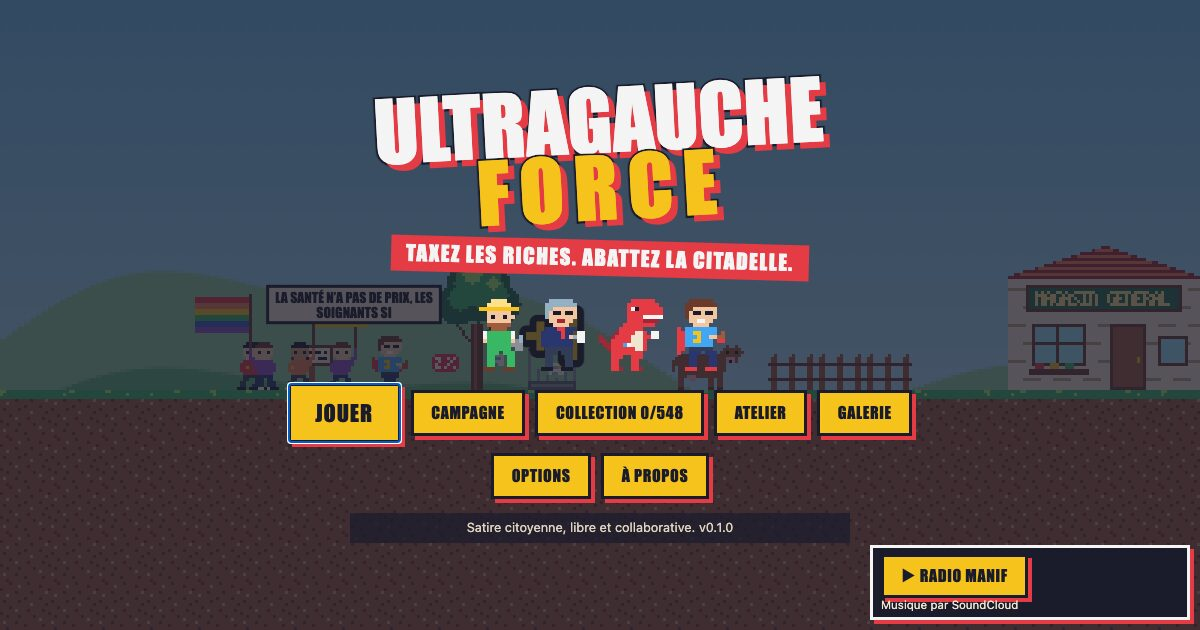
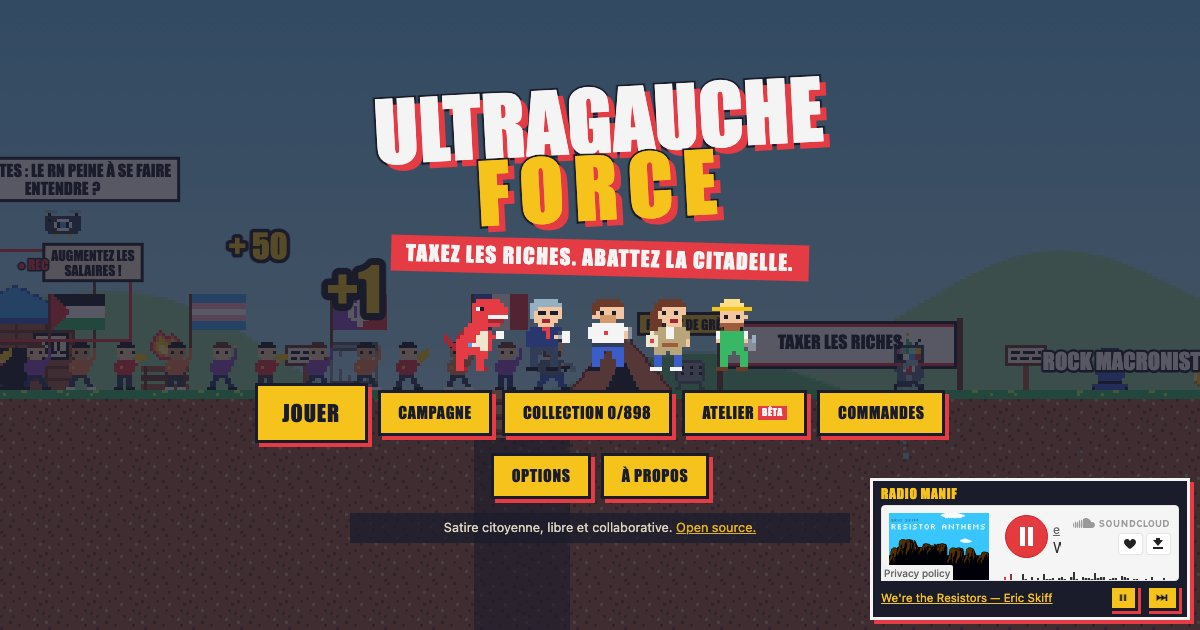
docs: le jeu est en ligne, un aperçu de lien à jour, un README sans erreur
Valentin, 17 novembre 2026 : « Attendre le domaine ». og:url et og:image
restent sur https://macraoke.github.io/ultragaucheforce/ jusqu'au branchement.

- apercu.jpg (og:image, 1200×630) : nouvelle capture réelle du menu actuel
  (Collection 0/898, Atelier bêta, Commandes, lecteur Radio Manif), à la
  place de l'ancien menu (« 0/548 », « Galerie », « v0.1.0 »).
- README : lien « Jouer en ligne » en tête ; « en ligne sur
  macraoke.github.io/ultragaucheforce, bientôt sur ultragaucheforce.fr » à la
  place de « Pas encore en ligne ».
- Chiffres et faits relus sur content/ : 389 pancartes (pas 345) ; les six
  étapes dans l'ordre de campagne.txt, Bismillah comprise (il n'y a pas de
  niveau « Citadelle ») ; on part à trois à Millevaches (plus « à dix place
  de la République ») ; le boss est tiré au hasard sauf à la chaîne d'info
  (Bolloré) et à Bismillah (Arnault) ; plus de catacombes ni de salle des
  coffres, absentes des niveaux.
- Les captures de niveaux qui n'existent plus sont retirées (place de la
  République, catacombes, parking, grille de la Citadelle, salle des
  coffres) ; la capture du menu est refaite.
- Licence : « sauf mention contraire », et le lien vers les mentions légales.

Audit avant publication, n° 7 et n° 8.

diff --git a/README.md b/README.md
@@ -2,7 +2,9 @@
 
 > **Taxez les riches. Abattez la Citadelle.**
 
-Un run-and-gun en pixel art où vous incarnez l'ultragauche telle que les plateaux télé la racontent : surarmée de tracts et de tomates. On part à dix place de la République, on arrive à des centaines devant la Citadelle, et on taxe la fortune qui s'y est assise. Ça se joue dans le navigateur, au clavier ou au pouce.
+**[Jouer en ligne](https://macraoke.github.io/ultragaucheforce/)**, dans le navigateur, sans rien installer.
+
+Un run-and-gun en pixel art où vous incarnez l'ultragauche telle que les plateaux télé la racontent : surarmée de tracts et de tomates. On part à trois sur le plateau de Millevaches ; d'étape en étape, la manif grossit, et au bout de chacune on taxe la fortune qui s'y est assise. Ça se joue dans le navigateur, au clavier ou au pouce.
 
 | | |
 |---|---|
@@ -12,11 +14,11 @@ Un run-and-gun en pixel art où vous incarnez l'ultragauche telle que les platea
 
 - **Faire grossir la manif.** Une soignante, un cheminot, une intersyndicale : chaque recrue compte, une assemblée générale double tout.
 - **Pousser.** Un barrage a une vie : les tracts l'entament, la manif le pousse, d'autant plus fort qu'elle est nombreuse.
-- **Six étapes.** Le camp d'entraînement de Millevaches, le rond-point, la raffinerie bloquée, le siège de la chaîne d'info, le soir du 49.3 devant l'Assemblée, puis la Citadelle.
-- **Creuser, grimper.** Tout le décor se détruit. Sous la rue, le métro, les catacombes, la salle des coffres ; au-dessus, six étages et les toits.
+- **Six étapes.** Le camp d'entraînement de Millevaches, le rond-point, la raffinerie bloquée, le soir du 49.3 devant l'Assemblée, le siège de la chaîne d'info, puis « Bismillah, c'est les ténèbres », du lycée bloqué à la plus grande manif.
+- **Creuser, grimper.** Tout le décor se détruit. Sous la rue, le métro ; au-dessus, les étages et les toits.
 - **Libérer.** On part avec un seul personnage, tiré au hasard la première fois. Chaque camarade sorti de garde à vue rejoint l'équipe et se joue tout de suite ; quand il tombe, on repart avec le précédent.
-- **Débloquer.** Les gens qui rejoignent la manif portent parfois une pancarte : commune, rare, épique ou légendaire. Il y en a 345, toutes relevées en manif.
-- **Taxer.** Au bout de chaque niveau, un ultra-riche est assis sur sa fortune : lequel, le hasard le dit. On en prend 2 % : de quoi payer, par exemple, 64 000 enseignants. Les comparaisons et les faits changent à chaque partie.
+- **Débloquer.** Les gens qui rejoignent la manif portent parfois une pancarte : commune, rare, épique ou légendaire. Il y en a 389, toutes relevées en manif.
+- **Taxer.** Au bout de chaque niveau, un ultra-riche est assis sur sa fortune : lequel, le hasard le dit, sauf à la chaîne d'info (Bolloré) et à Bismillah (Arnault). On en prend 2 % : de quoi payer, par exemple, 64 000 enseignants. Les comparaisons et les faits changent à chaque partie.
 - **PANIQUE TV.** Un bandeau de chaîne d'info fait défiler de vraies déclarations. Quand la panique monte, une équipe télé vient filmer la poubelle qui brûle, pas la manif.
 - **Partager.** En fin de niveau, une image à envoyer : la manif, ce que 2 % paieraient, une pancarte.
 
@@ -25,24 +27,21 @@ Un run-and-gun en pixel art où vous incarnez l'ultragauche telle que les platea
 
 | | |
 |---|---|
-| ![Place de la République](docs/captures/manif-republique.jpg) | ![Le lycée bloqué](docs/captures/lycee-bloque.jpg) |
-| ![Les toits](docs/captures/toits.jpg) | ![Les catacombes](docs/captures/catacombes.jpg) |
-| ![Le canon à eau](docs/captures/canon-a-eau.jpg) | ![Le parking, sous le quartier du luxe](docs/captures/parking.jpg) |
-| ![La grille de la Citadelle](docs/captures/grille.jpg) | ![La salle des coffres](docs/captures/salle-des-coffres.jpg) |
-| ![Millevaches : la base sous le rond-point](docs/captures/millevaches-base.jpg) | ![Millevaches : la grange et sa cave](docs/captures/millevaches-grange.jpg) |
-| ![Millevaches : la mine](docs/captures/millevaches-mine.jpg) | ![Millevaches : le château d'eau](docs/captures/millevaches-chateau-d-eau.jpg) |
-| ![Millevaches : la méga-bassine](docs/captures/millevaches-bassine.jpg) | ![Millevaches : l'hélicoptère](docs/captures/millevaches-helicoptere.jpg) |
-| ![Le rond-point : le péage levé](docs/captures/rond-point-peage.jpg) | ![La raffinerie bloquée : la cuve du dépôt de carburant](docs/captures/raffinerie-cuves.jpg) |
-| ![Le siège de la chaîne d'info : la régie](docs/captures/chaine-info-regie.jpg) | ![Le soir du 49.3 : devant l'Assemblée](docs/captures/soir-du-49-3-assemblee.jpg) |
-| ![Une équipe télé filme la poubelle qui brûle](docs/captures/feu-de-poubelle.jpg) | ![PANIQUE TV en pleine hystérie](docs/captures/panique-bandeau.jpg) |
-| ![Le duplex de BFM-TV](docs/captures/duplex-bfm.jpg) | ![La fortune, à l'échelle](docs/captures/taxe-fortune.jpg) |
-| ![Le menu](docs/captures/menu.jpg) | ![L'ouverture d'un niveau](docs/captures/ouverture.jpg) |
-| ![Un camarade libéré](docs/captures/carton-heros.jpg) | ![Fin de niveau](docs/captures/fin-de-niveau.jpg) |
-| ![Taxée à 2 % : ce que ça paierait, et ce que chacun paie déjà](docs/captures/taxe-ce-que-ca-paie.jpg) | ![Le plan de campagne](docs/captures/plan-de-campagne.jpg) |
-| ![La Collection : les pancartes débloquées et leur rareté](docs/captures/collection-grille.jpg) | ![L'image à partager en fin de niveau](docs/captures/partage.jpg) |
-| ![Une pancarte débloquée](docs/captures/collection-carte.jpg) | ![L'appel au vote](docs/captures/appel-au-vote.jpg) |
-| ![L'Atelier : on dessine son niveau](docs/captures/atelier.jpg) | ![Sur téléphone](docs/captures/mobile-paysage.jpg) |
-| ![Fin de niveau sur téléphone](docs/captures/mobile-fin-de-niveau.jpg) | |
+| ![Le lycée bloqué](docs/captures/lycee-bloque.jpg) | ![Les toits](docs/captures/toits.jpg) |
+| ![Le canon à eau](docs/captures/canon-a-eau.jpg) | ![Millevaches : la base sous le rond-point](docs/captures/millevaches-base.jpg) |
+| ![Millevaches : la grange et sa cave](docs/captures/millevaches-grange.jpg) | ![Millevaches : la mine](docs/captures/millevaches-mine.jpg) |
+| ![Millevaches : le château d'eau](docs/captures/millevaches-chateau-d-eau.jpg) | ![Millevaches : la méga-bassine](docs/captures/millevaches-bassine.jpg) |
+| ![Millevaches : l'hélicoptère](docs/captures/millevaches-helicoptere.jpg) | ![Le rond-point : le péage levé](docs/captures/rond-point-peage.jpg) |
+| ![La raffinerie bloquée : la cuve du dépôt de carburant](docs/captures/raffinerie-cuves.jpg) | ![Le siège de la chaîne d'info : la régie](docs/captures/chaine-info-regie.jpg) |
+| ![Le soir du 49.3 : devant l'Assemblée](docs/captures/soir-du-49-3-assemblee.jpg) | ![Une équipe télé filme la poubelle qui brûle](docs/captures/feu-de-poubelle.jpg) |
+| ![PANIQUE TV en pleine hystérie](docs/captures/panique-bandeau.jpg) | ![Le duplex de BFM-TV](docs/captures/duplex-bfm.jpg) |
+| ![La fortune, à l'échelle](docs/captures/taxe-fortune.jpg) | ![Le menu](docs/captures/menu.jpg) |
+| ![L'ouverture d'un niveau](docs/captures/ouverture.jpg) | ![Un camarade libéré](docs/captures/carton-heros.jpg) |
+| ![Fin de niveau](docs/captures/fin-de-niveau.jpg) | ![Taxée à 2 % : ce que ça paierait, et ce que chacun paie déjà](docs/captures/taxe-ce-que-ca-paie.jpg) |
+| ![Le plan de campagne](docs/captures/plan-de-campagne.jpg) | ![La Collection : les pancartes débloquées et leur rareté](docs/captures/collection-grille.jpg) |
+| ![L'image à partager en fin de niveau](docs/captures/partage.jpg) | ![Une pancarte débloquée](docs/captures/collection-carte.jpg) |
+| ![L'appel au vote](docs/captures/appel-au-vote.jpg) | ![L'Atelier : on dessine son niveau](docs/captures/atelier.jpg) |
+| ![Sur téléphone](docs/captures/mobile-paysage.jpg) | ![Fin de niveau sur téléphone](docs/captures/mobile-fin-de-niveau.jpg) |
 
 ![Téléphone tenu debout : le jeu pivote](docs/captures/mobile-tenu-debout.jpg)
 
@@ -50,7 +49,9 @@ Un run-and-gun en pixel art où vous incarnez l'ultragauche telle que les platea
 
 ## Jouer
 
-Pas encore en ligne. En local, il faut [Node.js](https://nodejs.org/fr) 22 et rien d'autre :
+Le jeu est en ligne sur https://macraoke.github.io/ultragaucheforce/ pour l'instant ; il passera bientôt sur ultragaucheforce.fr.
+
+En local, il faut [Node.js](https://nodejs.org/fr) 22 et rien d'autre :
 
 ```bash
 git clone https://github.com/macraoke/ultragaucheforce.git
@@ -113,7 +114,7 @@ Le pourquoi : [docs/DECISIONS.md](docs/DECISIONS.md).
 
 ## Licence
 
-Code [MIT](LICENSE), contenus [CC BY-SA 4.0](content/LICENCE.md).
+Code [MIT](LICENSE), contenus [CC BY-SA 4.0](content/LICENCE.md) sauf mention contraire (certains sons et musiques ont leur propre licence, dite dans le jeu, À propos → Crédits et licences). Mentions légales : [mentions-legales.html](mentions-legales.html).
 
 ## Clins d'œil
 
